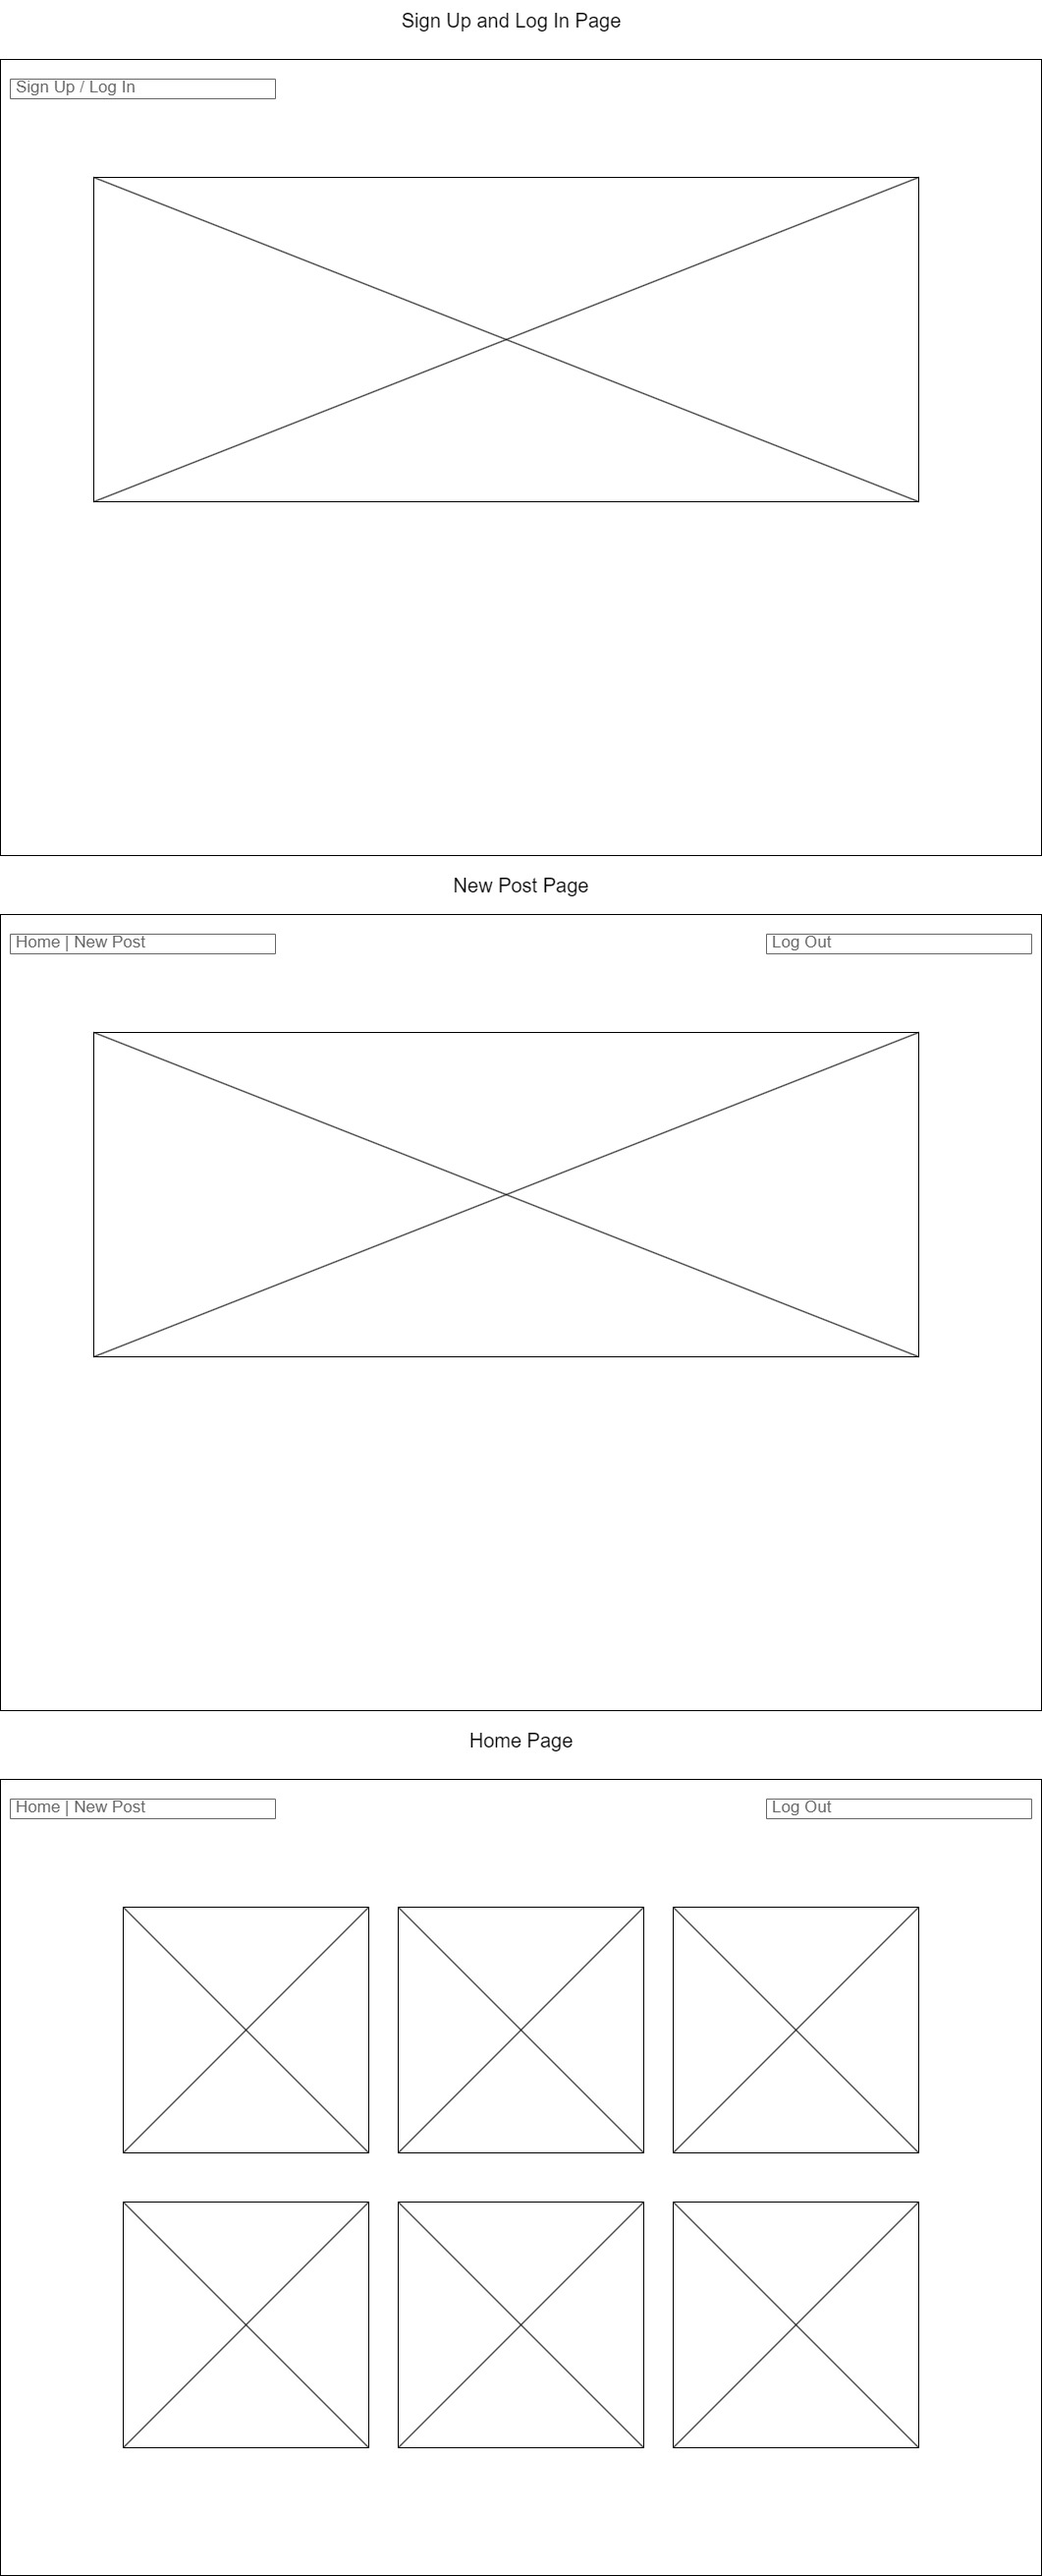
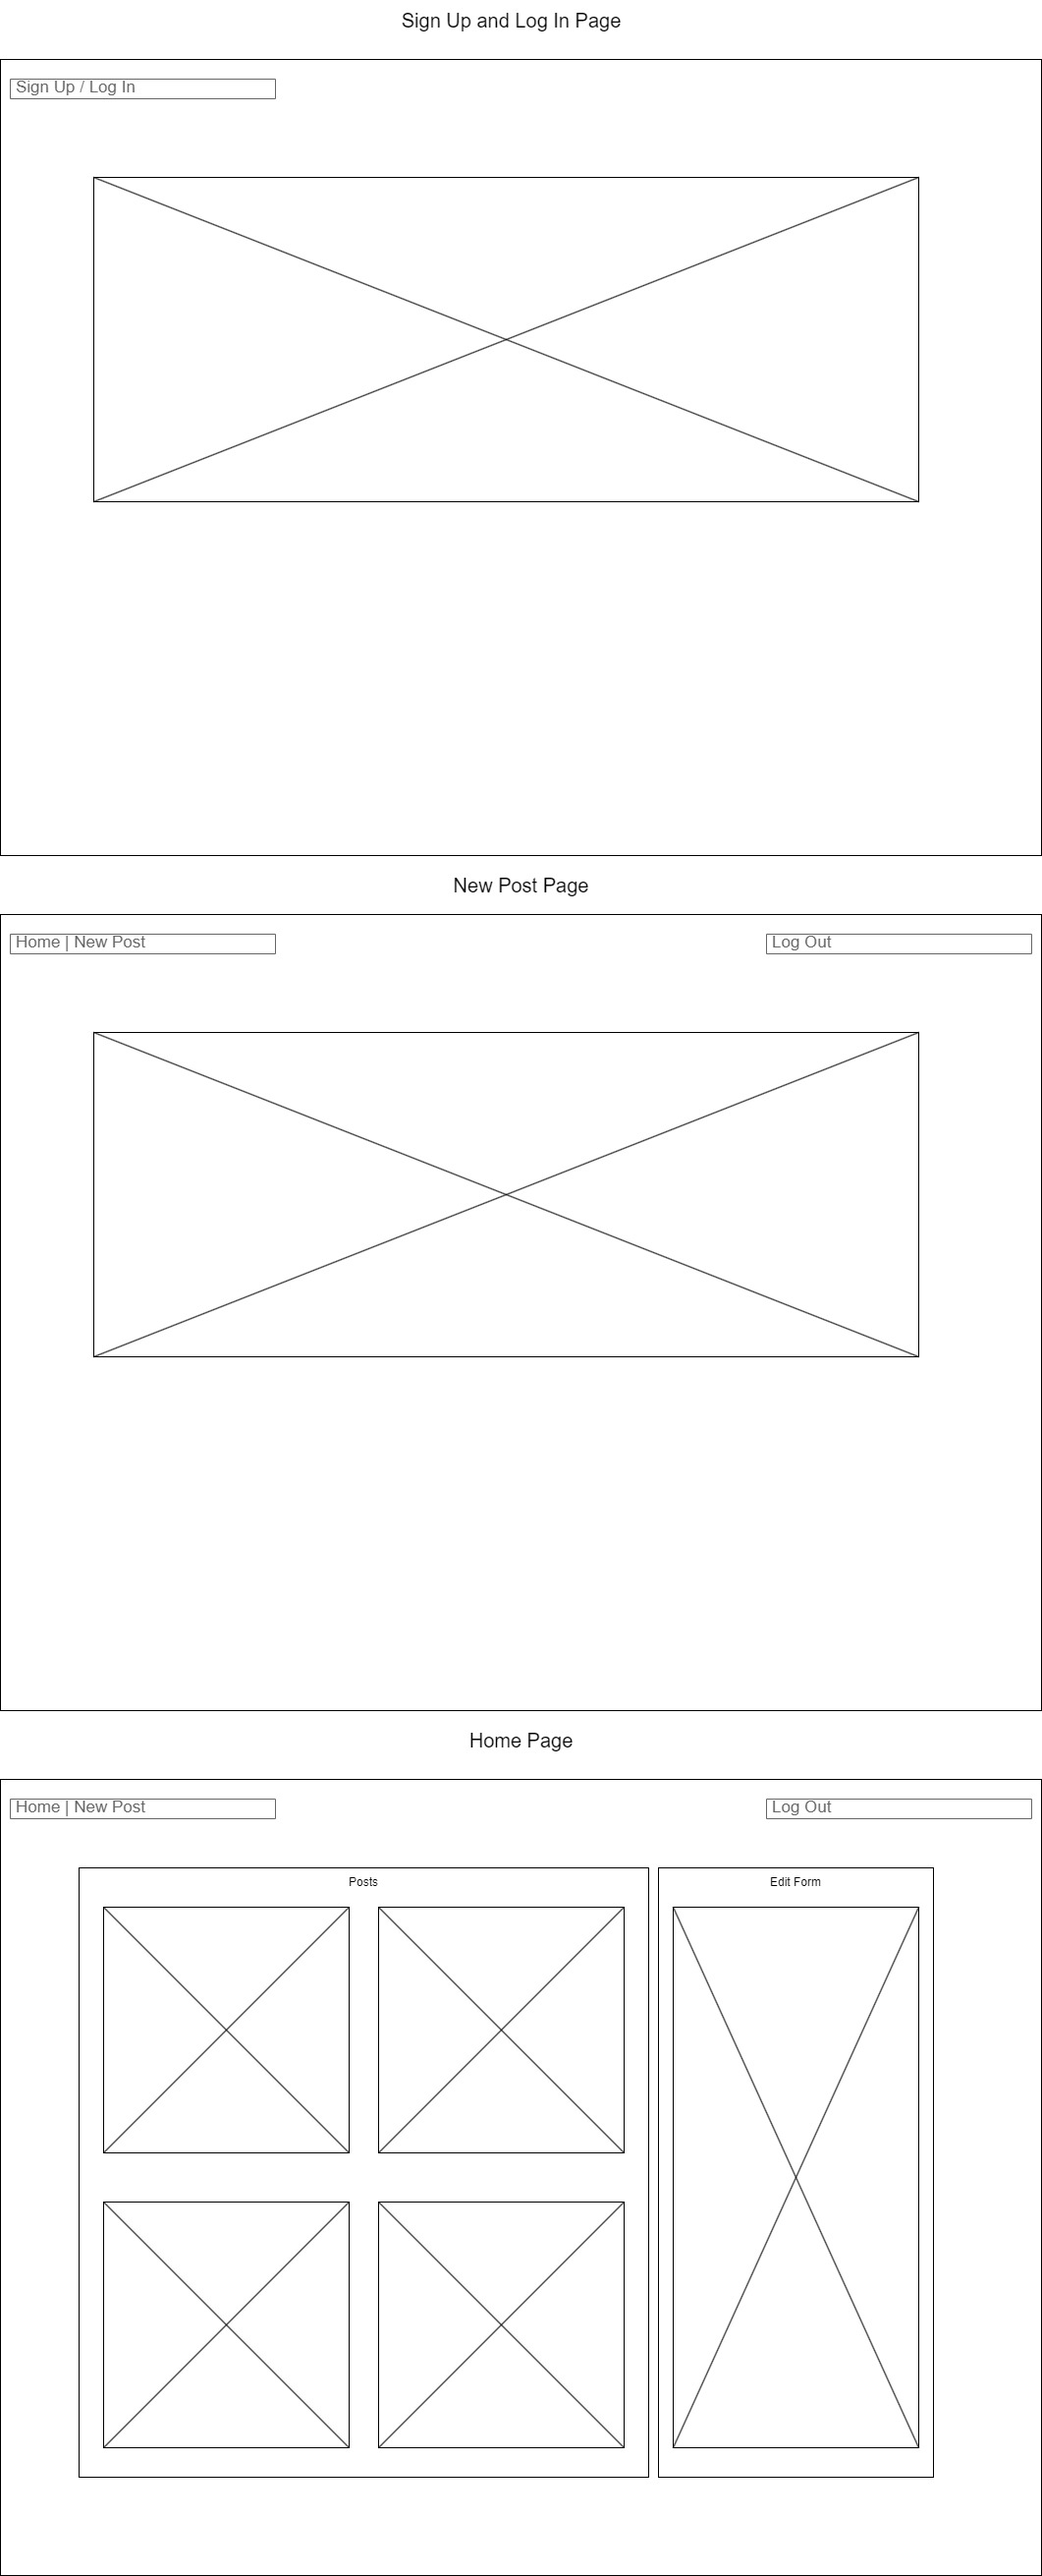
readme edits

diff --git a/README.md b/README.md
@@ -1,6 +1,7 @@
 Description:  
 
-I decided to make a simple logging app where users can write a brief description of an event, add a picture, and tags. I would like to further develop a search button and a detailed view of individual posts
+I decided to make a simple logging app where users can write a brief description of an event, add a picture, and tags. I would like to further develop a search button and a detailed view of individual posts. Streamlining the post editing and post creating process (as of now it requires a manual refresh to load new/edited entries from MongoDB).
+
 
 
 Wireframes:
